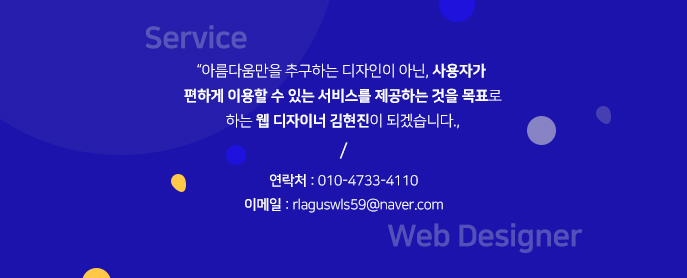
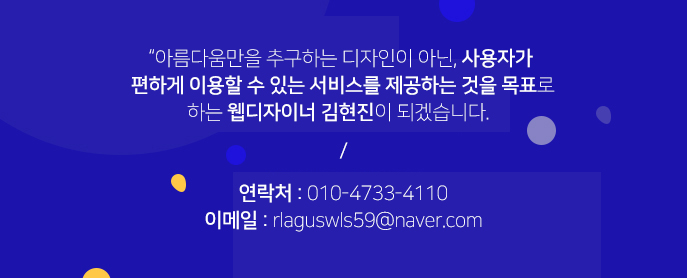
Add files via upload

Changed region(s): [[0.1834, 0.0863, 0.8253, 0.4604], [0.2751, 0.6043, 0.8559, 0.9209]]

diff --git a/css/style.css b/css/style.css
@@ -88,6 +88,17 @@ h1{font-weight: normal;}
     padding-top:120px;
   }
 }
+
+
+@media (max-width:480px){
+  .footer_area .footer_bottom p{font-size: 13px; line-height: 20px;}
+}
+
+@media (max-width:430px){
+  .footer_area .footer_bottom p{font-size: 10px; line-height: 18px;}
+}
+
+
 @media (max-width:350px){
   #skill{
     padding-top:100px;
@@ -98,8 +109,7 @@ h1{font-weight: normal;}
   #contact{
     padding-top:50px;
   }
-  .footer_area .footer_bottom p{font-size: 0.5em; line-height: 15px;}
-  
+  .footer_area .footer_bottom p{font-size: 10px; line-height: 18px;}
 }
 
 
@@ -208,6 +218,10 @@ button:focus {
     line-height: 50px;
     color: #0f04ba;
     text-transform: uppercase;
+    }
+
+    @media (max-width:1200px){
+        .main_title h2{font-size: 45px;}
     }
   
     @media (max-width: 767px) {
@@ -551,6 +565,11 @@ button:focus {
           }
         }
 
+       
+
+      
+     
+
       .home_banner_area .banner_inner .banner_content h5 {
         font-size: 24px;
         margin-bottom: 35px; }
@@ -560,8 +579,21 @@ button:focus {
         .black{color: lightgray;}
         .row h3{color: white; font-weight: bold;}
         .col-lg-12 strong{font-weight: bold;}
-        .col-lg-12
 
+      
+        @media (max-width:410px){
+          .home_banner_area .banner_inner .banner_content h1{
+            font-size: 25px;
+          }
+        }
+        @media (max-width:352px){
+          .home_banner_area .banner_inner .banner_content h1{
+            font-size: 20px;
+            line-height: 25px;
+          }
+          .banner_content .white{font-size: 13px;
+          line-height: 18px;}
+        }
 
 .banner_area {
   position: relative;
@@ -2620,6 +2652,13 @@ h6 {
         display: none; } 
         .about_area .main_title p{padding-top: 10px;}
       }
+      @media (max-width:600px){
+        .main_title p{font-size: 0.8em;}
+        .main_title h2, .col-lg-12 h1{font-size: 40px;}
+      }
+      @media (max-width:400px){
+
+      }
 
 /* End About Us Area css
 ============================================================================================ */
@@ -2651,6 +2690,15 @@ h6 {
   -moz-transition: all 0.4s ease 0s;
   -o-transition: all 0.4s ease 0s;
   transition: all 0.4s ease 0s; }
+ @media (max-width:1200px){
+  .feature_item{
+    padding: 45px 10px;
+  }
+ } 
+ @media (max-width:990px){
+  .feature_item{
+    padding: 45px 50px}
+ }
   .feature_item img {
     margin-bottom: 35px; }
   .feature_item h4 {
@@ -2786,15 +2834,18 @@ h6 {
     @media (max-width: 993px) {
       .portfolio_area .filters ul {
         margin-bottom: 20px;} }
+        .portfolio_area .filters ul li:nth-child(1){
+          margin-left: 15px;
+        }
     .portfolio_area .filters ul li:nth-child(6){
       border-right: 1px solid lightgray;
-      padding-right: 25px
+      padding-right: 20px
     }
     .portfolio_area .filters ul li {
       border-left:1px solid lightgray;
-      padding-left: 25px;
+      padding-left: 20px;
       display: inline-block;
-      margin-right: 25px;
+      margin-right: 20px;
       font-size: 14px;
       font-weight: 500;
       text-transform: uppercase;
@@ -2818,21 +2869,60 @@ h6 {
 
       @media (max-width: 767px) {
         .portfolio_area .filters ul li {
-        font-size: 0.9em;
-      padding-left: 25px;
-    margin: 10px;}
+        font-size: 0.7em;
+        padding-left: 15px;
+    margin-right: 15px;}
    
 
       .portfolio_area .filters ul li:nth-child(6){
         border-right: 1px solid lightgray;
-        padding-right: 25px;
+        padding-right: 15px;
     } 
     
 
       .portfolio_area .filters ul li:hover, .portfolio_area .filters ul li.active{
-       font-size: 1.1em;
+       font-size: 0.9em;
       
       }
+    }
+    @media (max-width:523px){
+      .portfolio_area .filters ul li {
+        font-size: 0.7em;
+      padding-left: 10px;
+      margin-right: 10px;}
+      .portfolio_area .filters ul li:hover, .portfolio_area .filters ul li.active{
+        font-size: 0.8em;}
+        .portfolio_area .filters ul li:nth-child(6){
+          border-right: 1px solid lightgray;
+          padding-right: 10px;
+      } 
+
+    }
+    @media (max-width:460px){
+      .portfolio_area .filters ul li {
+        font-size: 0.6em;
+      padding-left: 5px;
+      margin-right: 5px;}
+      .portfolio_area .filters ul li:hover, .portfolio_area .filters ul li.active{
+        font-size: 0.7em;}
+        .portfolio_area .filters ul li:nth-child(6){
+          border-right: 1px solid lightgray;
+          padding-right: 5px;
+      } 
+
+    }
+    @media (max-width:370px){
+      .portfolio_area .filters ul li {
+        font-size: 0.5em;
+      padding-left: 1px;
+      margin-right: 1px;}
+      .portfolio_area .filters ul li:hover, .portfolio_area .filters ul li.active{
+        font-size: 0.6em;}
+        .portfolio_area .filters ul li:nth-child(6){
+          border-right: 1px solid lightgray;
+          padding-right: 1px;
+      } 
+
     }
 
 .portfolio_box {
@@ -3008,9 +3098,7 @@ h6 {
   @media (max-width:1200px){
     .subscription_box{background-image: url(../img/subscribe-bg2.jpg);
     background-position: center;
-  margin-top: 50px;
 height: 400px;}
-
   }
 
   @media (max-width: 767px) {
@@ -3135,7 +3223,7 @@ height: 400px;}
     margin-bottom: 23px; }
 
   .header_area .navbar {
-    background: #000; }
+    background: #09009B; }
 
   .navbar-toggler[aria-expanded="false"] span:nth-child(2) {
     opacity: 1; }
@@ -3244,6 +3332,13 @@ height: 400px;}
     padding-bottom: 80px !important;
     background-image: none !important;
     background-color: #fcf8ff; }
+
+  @media (max-width:750px){
+    .newsletter_area{
+      background-color: #fff;
+      padding-bottom: 50px;
+    }
+  }
 
   /* Blog page Area css
   ============================================================================================ */
@@ -3404,6 +3499,8 @@ height: 400px;}
 
   .main_title h2 {
     font-size: 50px; }
+
+   
  
 
   /*Recent Update Area css
@@ -3479,6 +3576,12 @@ height: 400px;}
 
   .testi_item .media {
     display: block; } }
+
+    @media (max-width:350px){
+      .home_banner_area .banner_inner .banner_content h3{
+        font-size: 20px;
+      }
+    }
 @media only screen and (min-width: 992px) and (max-width: 1200px) {
   /* Start Brand Carousel Area css
   ============================================================================================ */
@@ -3561,10 +3664,18 @@ height: 400px;}
 @media (max-width:1200px){
   .col-lg-12 h2{
     margin-bottom: 50px;
+    font-size: 45px;
   }
 }
 
 .col-lg-3 p{font-size: 0.8em;}
+
+@media (max-width:767px){
+  .col-lg-3 p{font-size: 1em;}
+  .feature_item{
+    padding: 45px 10px;
+  }
+}
 
 
 
@@ -3604,11 +3715,13 @@ height: 400px;}
   line-height: 50px;
   text-transform: uppercase;
   }
-.col-lg-12 h1{color: #0f04ba; text-align: center; padding-bottom: 50px; font-family: 'Playfair Display', serif;}
+.col-lg-12 h1{color: #0f04ba; 
+  text-align: center; padding-bottom: 50px; font-family: 'Playfair Display', serif;}
 
 
 @media(max-width:990px){
   .main_title h2{margin: 0 auto; padding-bottom: 20px;}
+  .col-lg-12 h2{padding-bottom: 0;}
   @keyframes ball {
     0% {top: -90px;}
     100% {top: -60px;}
@@ -3616,7 +3729,16 @@ height: 400px;}
 }
 
 @media (max-width:750px){
-  .subscription_box{height: 300px;}
+  .subscription_box{height: 200px;}
+}
+@media (max-width:500px){
+  .subscription_box{height: 200px;
+      background: url(../img/subscribe-bg3.jpg);
+    background-size: contain;
+  background-repeat: no-repeat;}
+}
+@media (max-width:450px){
+  .subscription_box{height: 150px;}
 }
 @media(max-width:480px){
   .home_right_img{width: 80%;}
@@ -3631,7 +3753,6 @@ height: 400px;}
 @media(max-width:350px){
   .main_title h2{
     font-size: 2.5em;}
-    .col-lg-12 h1{font-size: 2.5em;}
     .subscription_box{height: 100px;}
     .home_right_img{width: 100%;}
   @keyframes ball {
@@ -3643,8 +3764,15 @@ height: 400px;}
   
 
 @media (max-width:1200px){
-  .col-lg-12 h1{padding-bottom: 0;}
+  .col-lg-12 h1{padding-bottom: 0;
+  font-size: 45px;}
 }
+
+@media (max-width:500px){
+  .col-lg-12 h1{font-size: 2.5em}
+}
+
+
 
 .col-lg-7 h1{font-weight: 500; color: #dbdbdb; line-height: 60px;}
 .col-lg-7 strong{font-weight: bolder; color: #fff;}
@@ -3652,4 +3780,7 @@ height: 400px;}
 
   
 }
+
+
+
 

diff --git a/index.html b/index.html
@@ -447,7 +447,8 @@
 				<p class="col-lg-8 col-sm-12 footer-text">
 					<!-- Link back to Colorlib can't be removed. Template is licensed under CC BY 3.0. -->
 Copyright &copy;<script>document.write(new Date().getFullYear());</script> 웹디자이너 김현진 ALL right reserved<i class="fa fa-heart-o" aria-hidden="true"></i> by <a href="https://colorlib.com" target="_blank">Colorlib</a><br>
-본 사이트는 개인 포트폴리오로 제작되어 상업적 목적이 아닙니다. 사용된 일부 이미지 및 폰트 등은 별도의 출처가 있음을 밝힙니다.
+본 사이트는 개인 포트폴리오로 제작되어 상업적 목적이 아닙니다. 
+<br>사용된 일부 이미지 및 폰트 등은 별도의 출처가 있음을 밝힙니다.
 <!-- Link back to Colorlib can't be removed. Template is licensed under CC BY 3.0. --></p>
 			</div>
 		</div>
